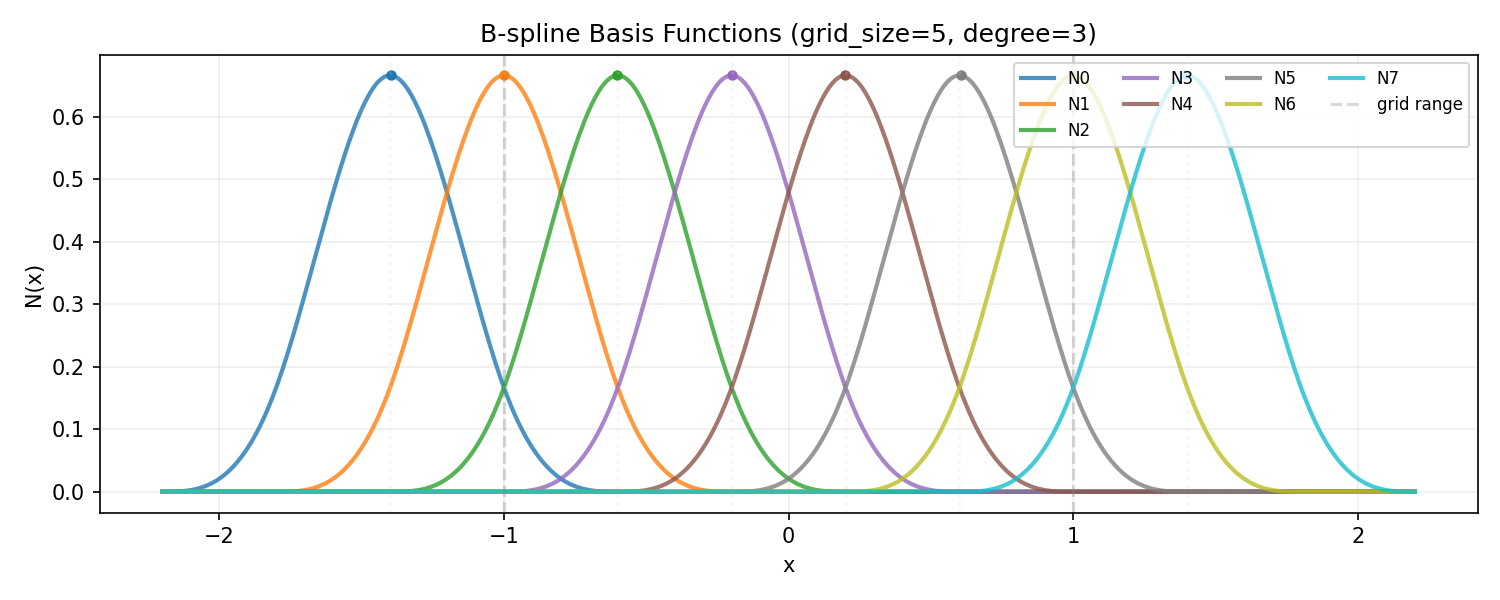
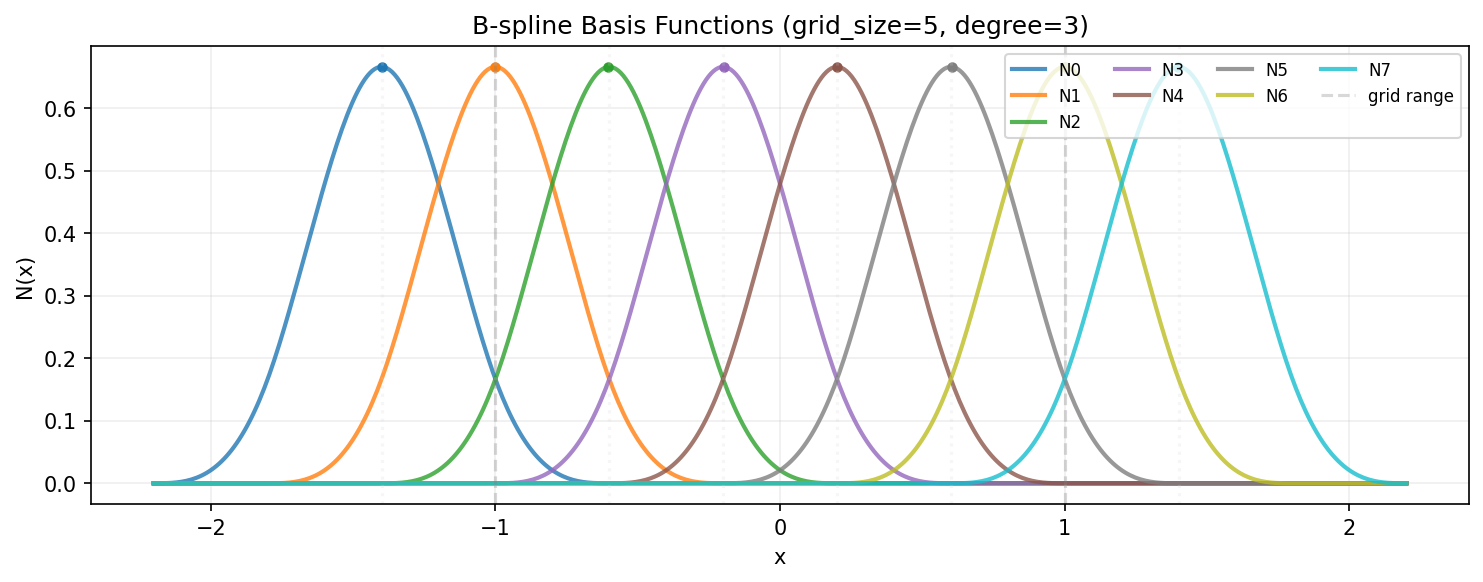
Regenerate assets from package API, update README code examples
All 4 images (basis, activations, surface, network) are now produced
by the package's plot functions. Code examples use the new
network + layer selector API.

diff --git a/README.md b/README.md
@@ -96,16 +96,18 @@ InKAN includes built-in visualization for learned activation functions and surfa
 ```python
 from inkan import KANNetwork, plot_basis, plot_activations, plot_surface
 
-# 1D: basis bumps and learned activations
-model = KANNetwork([784, 32, 10], grid_size=8)
-plot_basis(model.layers[0])
-plot_activations(model.layers[1])
+model = KANNetwork([784, 32, 10], grid_size=5)
+# ... train ...
+
+# Pick which layer to visualize
+plot_basis(model, layer=0)          # B-spline basis bumps
+plot_activations(model, layer=0)    # learned curves, layer 0
+plot_activations(model, layer=1)    # learned curves, layer 1
 
 # 2D: learned surface
-from inkan import KANLayer
-layer = KANLayer(2, 1, dim=2, grid_size=12)
+net2d = KANNetwork([2, 3], dim=2, grid_size=12)
 # ... train ...
-plot_surface(layer)  # 3D surface + contour plot
+plot_surface(net2d, layer=0)        # 3D surface + contour plot
 ```
 
 ### B-spline basis functions
